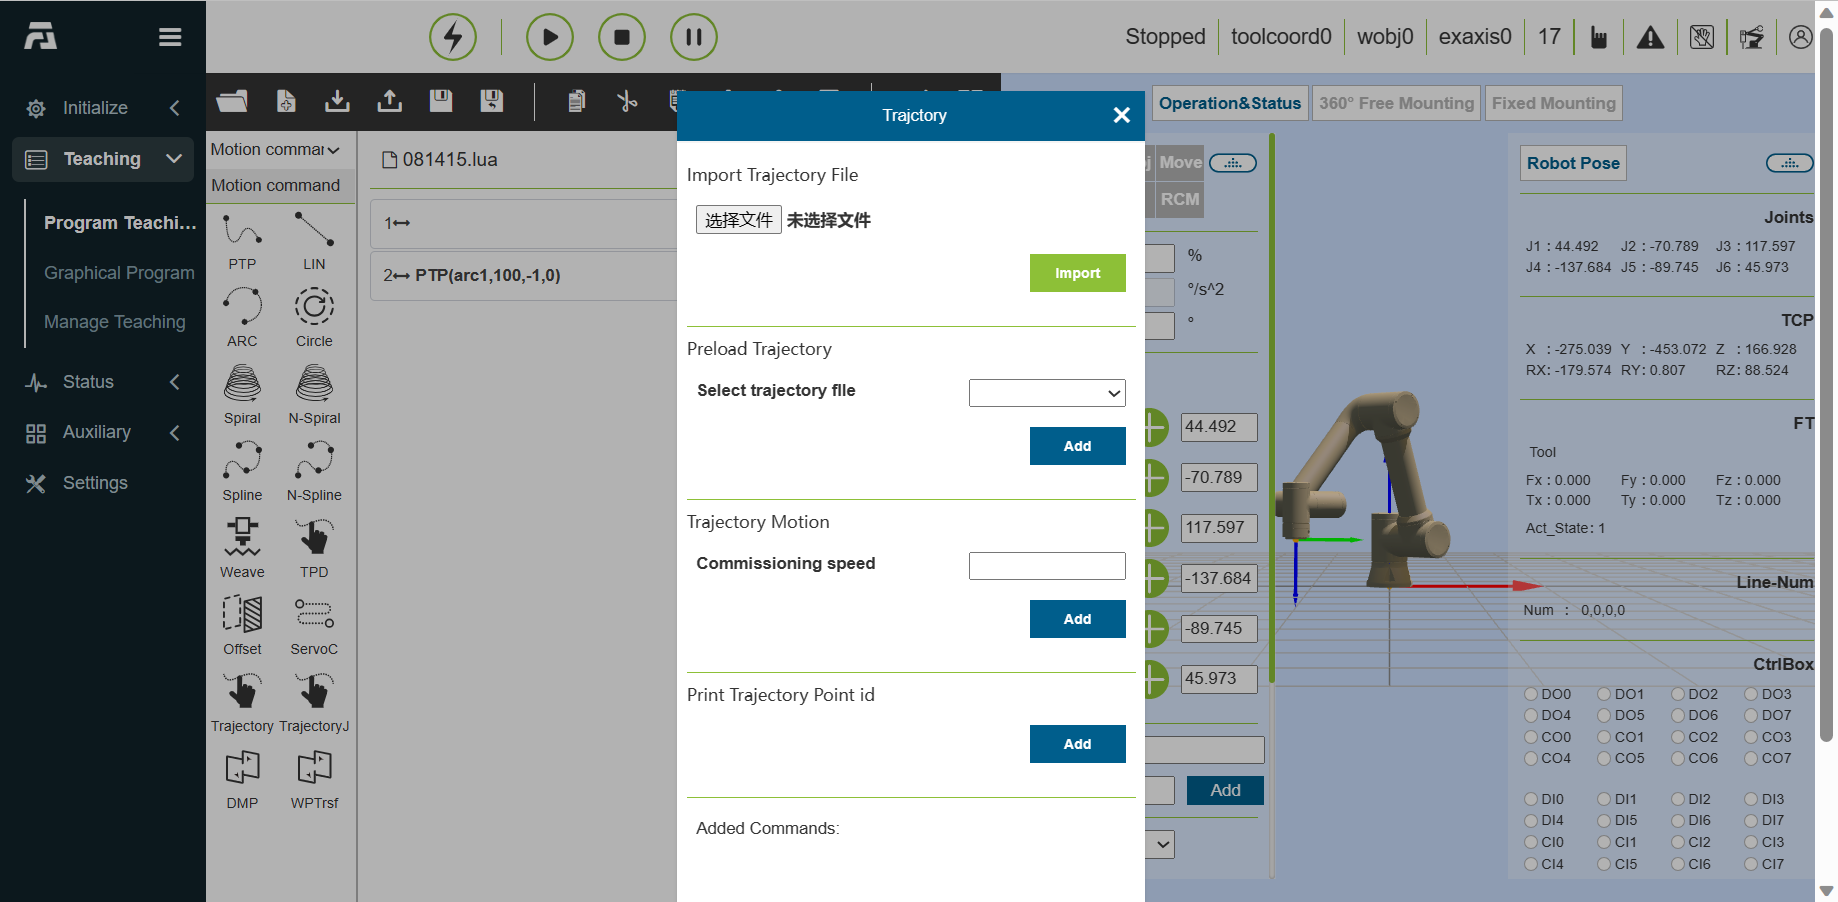
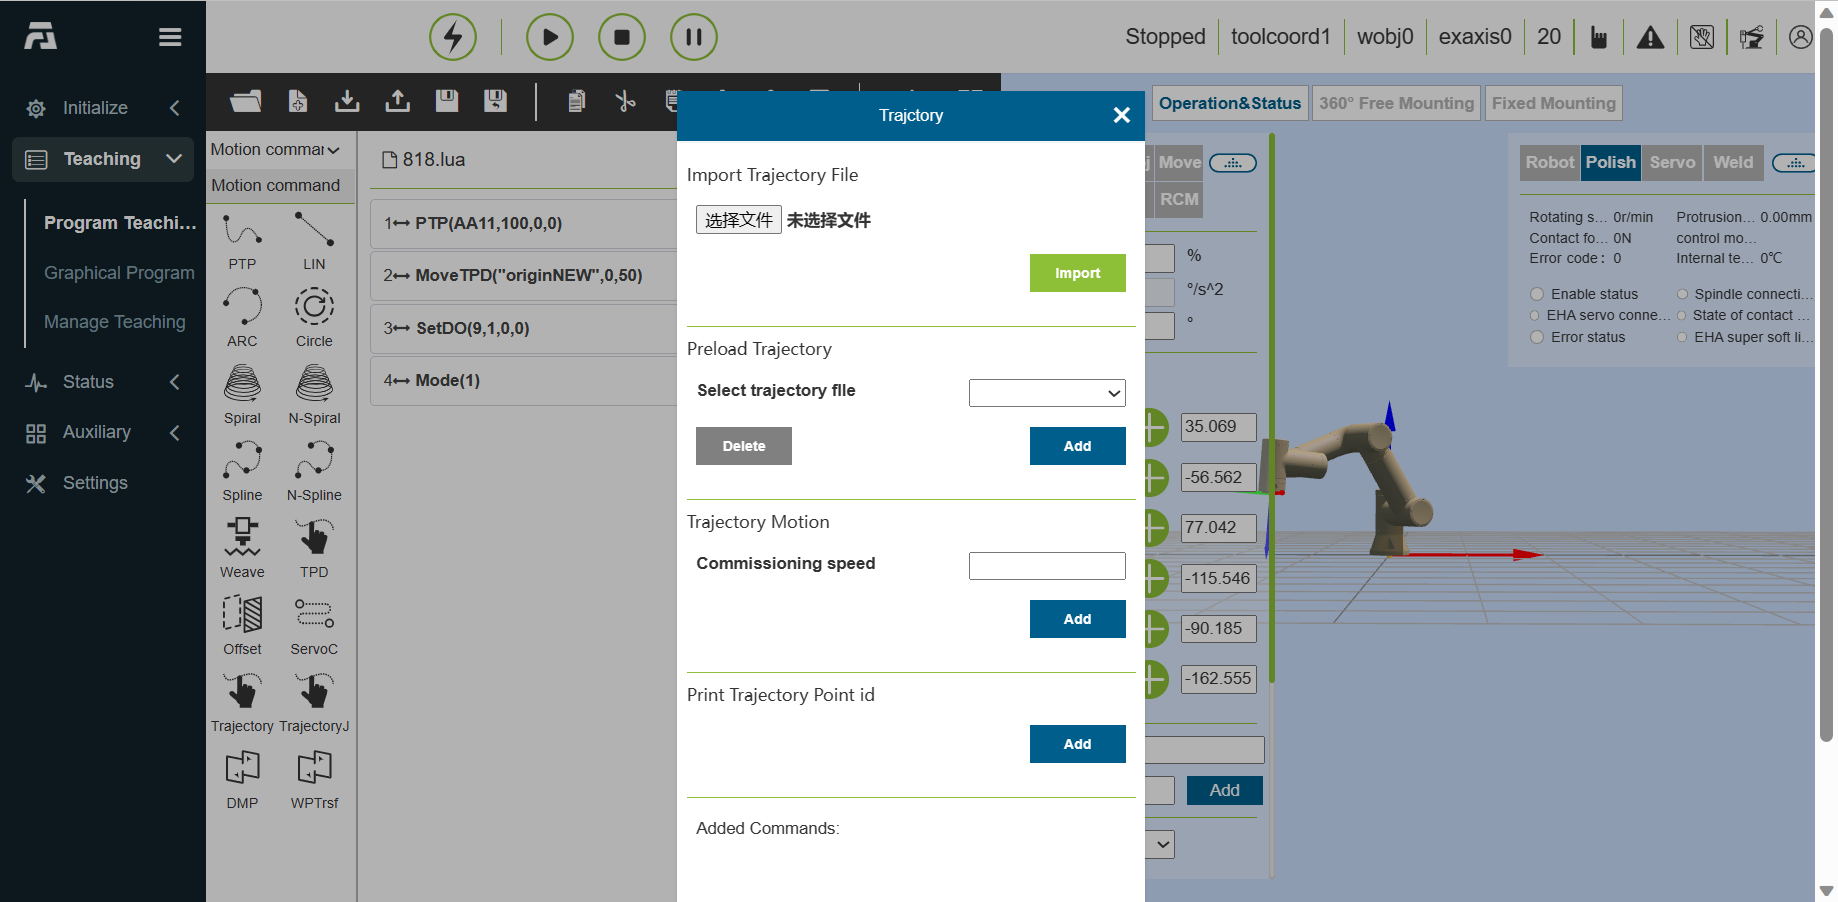
Update new teaching_pendant 09/01

diff --git a/source/CobotsManual/teaching_pendant_software.rst b/source/CobotsManual/teaching_pendant_software.rst
@@ -1807,15 +1807,23 @@ This command is a spraying-related command, which controls the spray gun to "sta
 EAxis command
 ++++++++++++++++
 
-Click the "EAxis" icon to enter the EAxis command editing interface
+Click the "EAxis" icon to enter the EAxis command editing interface, Select the combination mode: controller + servo drive (485) / controller + PLC (UDP).
 
-This command is used in combination with the PTP command for scenarios using external axes, and can decompose the movement of a point in space in the X-axis direction to the movement of external axes. Select the external axis number, select synchronous motion mode, select the point to be reached, and click "Add" and "Apply" to save the command.
+Select controller + PLC(UDP),this command is used in combination with the PTP command for scenarios using external axes, and can decompose the movement of a point in space in the X-axis direction to the movement of external axes. Select the external axis number, select synchronous motion mode, select the point to be reached, and click "Add" and "Apply" to save the command.
 
 .. image:: teaching_pendant_software/116.png
    :width: 6in
    :align: center
 
 .. centered:: Figure 4.7-7-3 EAxis command interface
+
+Select controller + servo drive(485),This command can configure the extended axis parameters. Set different parameters according to different control modes. The zero point of the configured expansion axis can be set.
+
+.. image:: teaching_pendant_software/218.png
+   :width: 6in
+   :align: center
+
+.. centered:: Figure 3.7-7-4 Servo command interface
 
 Convey command
 ++++++++++++++++
@@ -1828,7 +1836,20 @@ This command includes four commands: position real-time detection, IO real-time 
    :width: 6in
    :align: center
 
-.. centered:: Figure 4.7-7-4 Conveyor command interface
+.. centered:: Figure 4.7-7-5 Conveyor command interface
+
+Polish command
+++++++++++++++++
+
+Click the "Polishing" icon to enter the Polish command editing interface
+
+This command can set the rotation speed, contact force, extension distance and control mode of the grinding equipment.
+
+.. image:: teaching_pendant_software/219.png
+   :width: 6in
+   :align: center
+
+.. centered:: Figure 3.7-7-6 Polish command interface
 
 Welding command interface
 ~~~~~~~~~~~~~~~~~~~~~~~~~~~~~~

diff --git a/source/CobotsManual/robot_peripherals.rst b/source/CobotsManual/robot_peripherals.rst
@@ -1003,3 +1003,23 @@ Palletizing system configuration steps
    :width: 6in
 
 .. centered:: Figure 5.10-5 Palletizing system monitoring
+
+Polishing equipment configuration
+------------------------------------
+
+Polishing equipment configuration step
+~~~~~~~~~~~~~~~~~~~~~~~~~~~~~~~~~~~~~~~~~~~~~~
+
+**Step1**：Enter the Polishing equipment configuration page, configure the communication information, you need to configure the IP address, port, sampling period and communication protocol. After the configuration is successful, it will be automatically displayed next time.
+
+**Step2**：After completing the communication configuration, the communication can be established by loading/unloading the grinding equipment.
+
+**Step3**：Device functions. Operations such as device enabling, error clearing, and force sensor zeroing can be performed.
+
+**Step4**：Parameter configuration. The rotation speed, contact force, reach distance and control mode of the polishing equipment can be set. After successful setting, the corresponding data and status can be displayed in the "Polish" status feedback column on the right.
+
+.. figure:: robot_peripherals/061.png
+   :align: center
+   :width: 6in
+
+.. centered:: Figure 4.11-2 Polishing equipment configuration page
